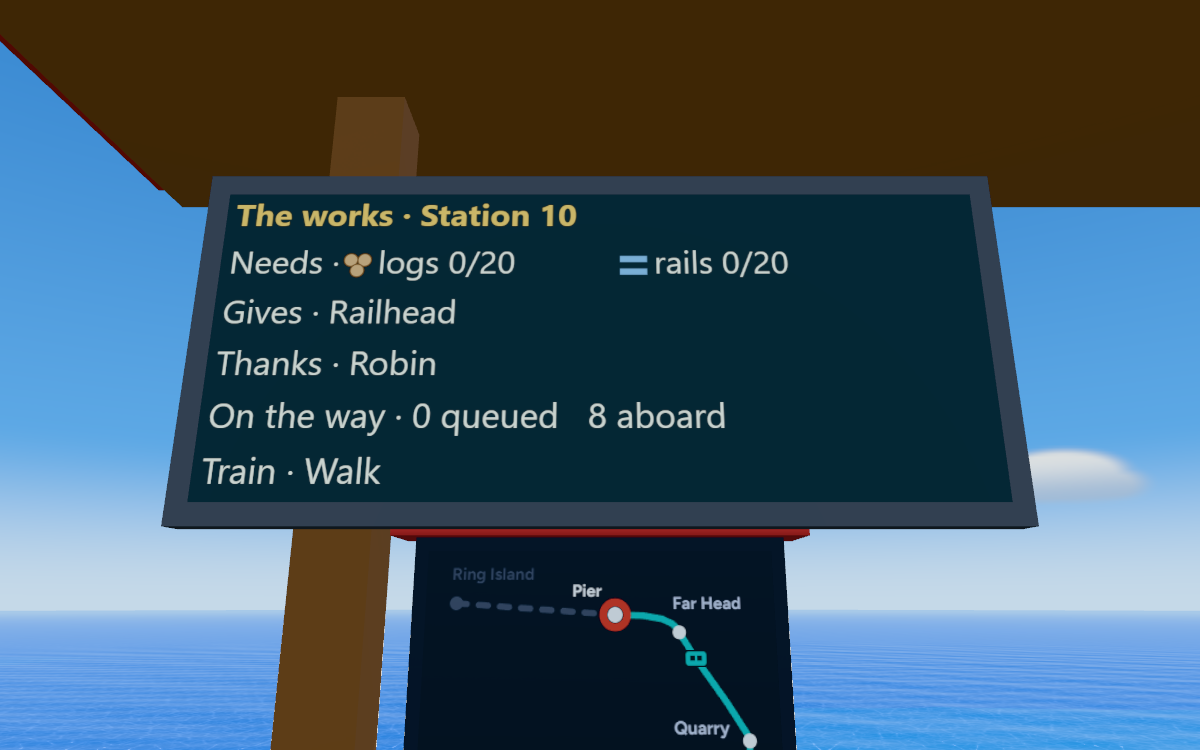
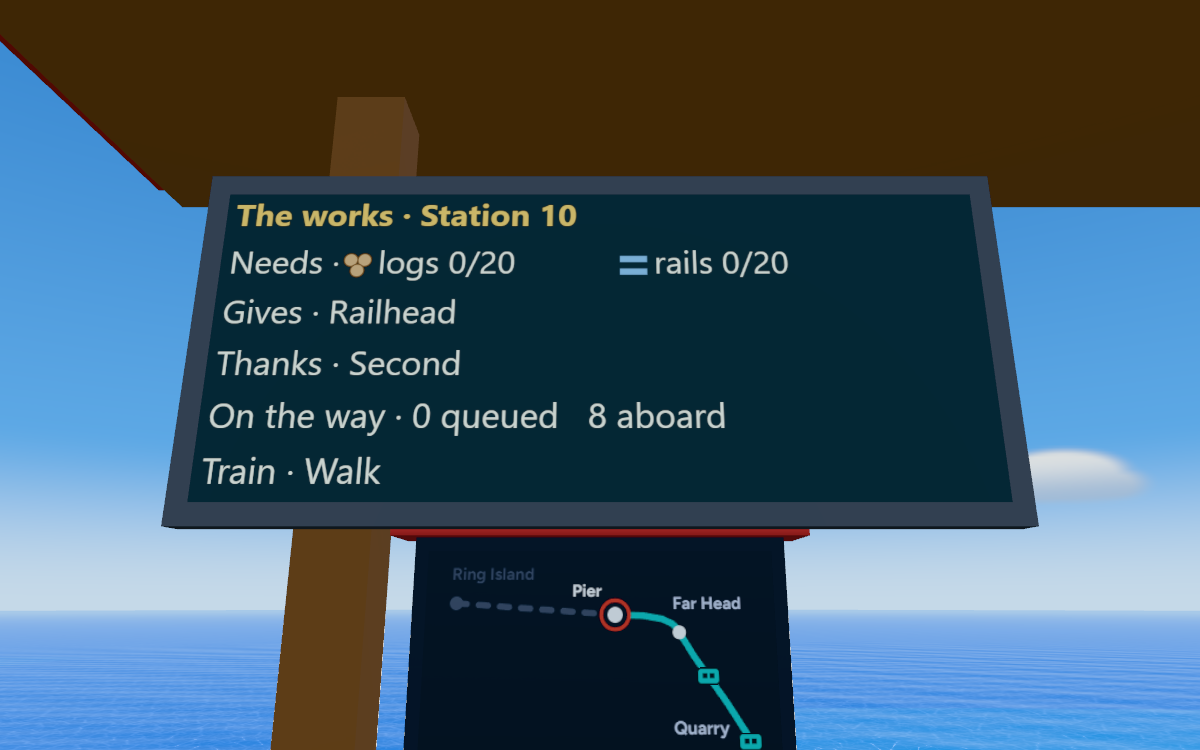
Verify the live Quarry handoff from the Pier

diff --git a/dev/look/bots/railway.ts b/dev/look/bots/railway.ts
@@ -48,7 +48,14 @@ export async function giveQuarryTimber(bot: Bot) {
   const at = bin()!.at;
   bot.press();
   hookCheck(bot, await bot.until(() => R.railBack().carry === 8, 10000, 'eight Quarry logs'), 'eight lifted');
-  hookCheck(bot, await bot.use(at.x, at.z, 'Quarry gift rack', /^Give to works$/), 'Quarry gift prompt');
+  await bot.straight(at.x, at.z, 0.8, 3000);
+  // The yard suppresses its prompts during the pickup flight.
+  hookCheck(
+    bot,
+    await bot.until(() => bin()?.verb === 'Give to works', 12000, 'Quarry pickup flight finished'),
+    'Quarry gift prompt',
+  );
+  bot.press();
   hookCheck(
     bot,
     await bot.until(() => R.railBack().carry === 0, 10000, 'Quarry deposit settles'),

diff --git a/docs/plans/lane-b-halt-racks.md b/docs/plans/lane-b-halt-racks.md
@@ -37,4 +37,4 @@ The brief names two towns without catalogued yards. Step 1 limits the build to o
 
 The verified fixture replay preserves the 86 seed-stage ticks and the six streams of op labels and accepted results. The new saved account field changes hashes. The host still judges the existing yard reach and rail.haltPut shape.
 
-The [Pier board](lane-b-halt-racks/pier-works.png) shows Robin's eight Quarry logs aboard and zero of twenty delivered. This WebGPU capture starts from the accepted deposit and dispatch. The replay test follows the same route to the pour. The proof seed uses the existing Pier-seed builder with the Quarry as its source.
+In the [two-player Pier capture](lane-b-halt-racks/pier-works.png), the player named Second lifts eight ordinary logs from the Quarry bin and presses Give to works there after the pickup flight. Their friend sees Thanks · Second and 0 queued, 8 aboard at the Pier. Its bill still reads 0/20 logs. Both clients observed one named contributor and the dispatch. The replay and host tests follow the same route to the pour. The co-op seed places ordinary stock in the bin before Q7 opens.
